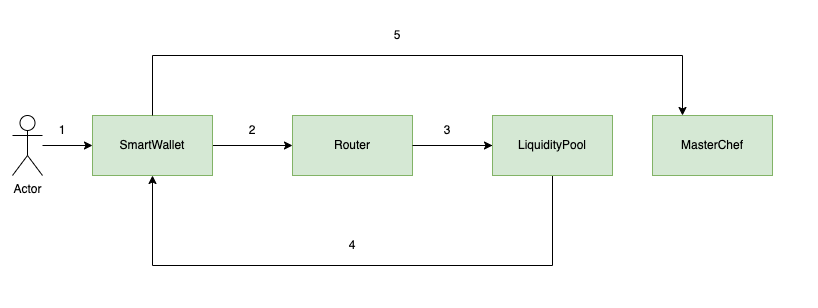
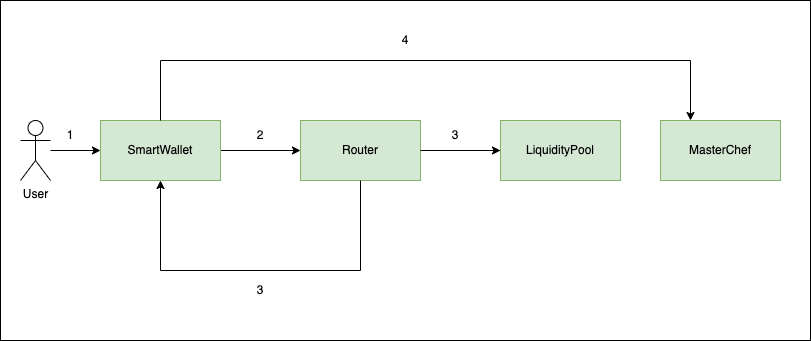
docs: documentation created

diff --git a/README.md b/README.md
@@ -1,13 +1,187 @@
-# Sample Hardhat Project
+_Important note: the .env file is available in the repository, this is only to facilitate testing the project, under no circumstances could it be available in a real project._
 
-This project demonstrates a basic Hardhat use case. It comes with a sample contract, a test for that contract, and a script that deploys that contract.
+## Table of content
 
-Try running some of the following tasks:
+- [Challenge](#challenge)
 
-```shell
-npx hardhat help
-npx hardhat test
-REPORT_GAS=true npx hardhat test
-npx hardhat node
-npx hardhat run scripts/deploy.ts
+- [Project Structure](#project-structure)
+
+- [How it works](#about-the-game)
+
+- [Installation](#installation)
+
+- [Running the project](#running-the-project)
+
+- [Running tests](#running-the-tests)
+
+- [Running Slither](#running-slither)
+
+- [Considerations](#considerations)
+
+## Challenge
+
+SushiSwap is a decentralized exchange (DEX) protocol based off Uniswap.\
+To compete with its predecessor, SushiSwap launched a liquidity mining
+program that rewards liquidity providers that decide to deposit their tokens
+on their DEX.\
+In order to participate for the liquidity program, you have to follow the
+following steps\
+
+- Approve the SushiSwap router to use your tokens.\
+- Provide liquidity on SushiSwap by entering a pool using that is
+  incentivized by Sushi (https://app.sushi.com/pool).\
+- Approve the MasterChef smart contract to use your tokens.\
+- Deposit the liquidity token (SLP) you received after supplying
+  liquidity into a yield farm managed by MasterChef smart
+  contract (https://app.sushi.com/yield), and earn SUSHI.\
+
+The usual process for joining the liquidity mining program consist of 4 steps.
+This can be tiresome and consume a lot of time and extra gas.\
+Develop a smart contract that acts as a wallet, that encapsulates all the
+actions required to join.\
+SushiSwap’s liquidity mining program into a single, handy transaction.
+This should work with MasterChefV1 and MasterChefV2 and with any pair of
+tokens.
+
+## Project Structure
+
+The project is divided into 5 main folders:
+
+1 - **contracts**: contains the smart contracts and interfaces of the project.\
+2 - **deploy**: contains the scripts to deploy the contracts.\
+3 - **tasks**: contains the scripts to interact with the contracts and The Graph.\
+4 - **test**: contains the tests of the project.\
+5 - **utils**: contains utility functions consumed by other scripts
+
+## How it works
+
+![Image](https://github.com/dario13/RatherLabsChallenge/Diagram.png?raw=true)
+
+The logic of the main SmartWallet function, called joinLiquidityMiningProgram(...) is:
+1- The user allows the SmartWallet to spend his tokens.
+2- The SmartWallet transfer the tokens from the user and allows the Router to spend his tokens. After that, call the Router to make a deposit in the Liquidty Pool.
+3- The Router performs a series of validations, and if everything is correct, add liquidity in the Liquidity Pool and transfers the minted SLP tokens to SmartWallet.
+4- The SmartWallet allows the MasterChef to spend his SLP tokens. After that, call the MasterChef to make a deposit in the MasterChef.
+
+## Installation
+
+First clone the repository:
+
+```bash
+https://github.com/dario13/RatherLabsChallenge.git
 ```
+
+To intall the project, I recommend using Yarn, but you can use NPM if you prefer (I didn't prove it).
+
+```bash
+yarn install
+```
+
+## Running the project
+
+To run the project, both for tasks and for tests, it's necessary to run a local Ethereum network node because the project uses a fork of the Ethereum mainnet. Execute the following command to run the node:
+
+```bash
+yarn hardhat node
+```
+
+In a potential dapp, the user would obtain the information of the tokens and the pools on a frontend, but for simplicity I created two tasks to obtain that information. \
+The first task gets the information totally on-chain. Execute the following command example to run the task:
+
+```bash
+yarn hardhat getPIDonchain --token0 '0x429881672B9AE42b8EbA0E26cD9C73711b891Ca5' --token1 '0xC02aaA39b223FE8D0A0e5C4F27eAD9083C756Cc2' --network localhost
+```
+
+Should print something like this:
+
+```bash
+Pair Token address:  0x269Db91Fc3c7fCC275C2E6f22e5552504512811c
+Pool found in both MasterChefV1 and MasterChefV2
+Pool ID found in MasterChefV1:  35
+Pool ID found in MasterChefV2:  3
+```
+
+The second task gets the information from The Graph. Execute the following command example to run the task:
+
+```bash
+yarn hardhat getPID --token0 '0x429881672B9AE42b8EbA0E26cD9C73711b891Ca5' --token1 '0xC02aaA39b223FE8D0A0e5C4F27eAD9083C756Cc2' --network localhost
+```
+
+and should print something like this:
+
+```bash
+------------------------------------
+Token0: 0x429881672B9AE42b8EbA0E26cD9C73711b891Ca5
+Token1: 0xC02aaA39b223FE8D0A0e5C4F27eAD9083C756Cc2
+Pair Address: 0x269db91fc3c7fcc275c2e6f22e5552504512811c
+------------------------------------
+Pool Information:  [
+  {
+    pairAddress: '0x269db91fc3c7fcc275c2e6f22e5552504512811c',
+    pid: '35',
+    version: 'MASTERCHEF'
+  },
+  {
+    pairAddress: '0x269db91fc3c7fcc275c2e6f22e5552504512811c',
+    pid: '3',
+    version: 'MASTERCHEFV2'
+  }
+]
+```
+
+## Running tests
+
+To run the tests, you can use the following command:
+
+```bash
+ yarn test
+```
+
+## Running Slither
+
+For running Slither, I use a docker image, you can run this command to get the image:
+
+```bash
+docker pull trailofbits/eth-security-toolbox
+```
+
+\
+ Then you need to run the following command:
+
+```bash
+yarn toolbox
+```
+
+\
+ And inside the container, you can run slither as follows:\
+ First, changing solc version to 0.8.13:
+
+```bash
+solc-select use 0.8.13
+```
+
+And finally running slither:
+
+```bash
+slither /src/contracts/ --solc-remaps '@openzeppelin=/src/node_modules/@openzeppelin @chainlink=/src/node_modules/@chainlink' --exclude naming-convention,external-function,low-level-calls
+```
+
+The analysis will indicate that the contract has a reentrancy vulnerability, and it's true because the token balance, line 220 and 221, is updated after to add liquidity, because the exact amount that was debited is informed when the liquidity is added. This calculation could be done previously for the contract, copying the logic applied in the internal function \_addLiquidity from the router, but in order not to prolong the delivery of this challenge I decided to leave it as it is.
+
+## Considerations
+
+About the contract:
+
+- The SLP Token address is required to join the liquidity mining program, because it's understood that the user is only interested in joining the program for pairs who are already in the pool and eligible to be farmed.
+- Some validations are not performed in the SmartWallet, such as if the SLP doesn't exist in the MasterChef, because it wouldn't be listed in a potential frontend.
+- The SmartWallet is not a proxy contract, because it's not required for this challenge, but could easily be adapted.
+
+About the tests:
+
+- The tests were only done for the forked network, because I didn't find a testnet for SushiSwap.
+- Only positive scenarios have been tested, but other scenarios should also be tested in a real implementation. Moreover, fuzz tests should be added.
+- I didn't use mocks because I found it better to use real contracts.
+
+And finally:
+
+- Many other implementations could be done for this project, like a frontend in React, a CI/CD pipeline, etc. I have a project with the same stack in which I have implemented these things: https://github.com/dario13/MOM_Project
